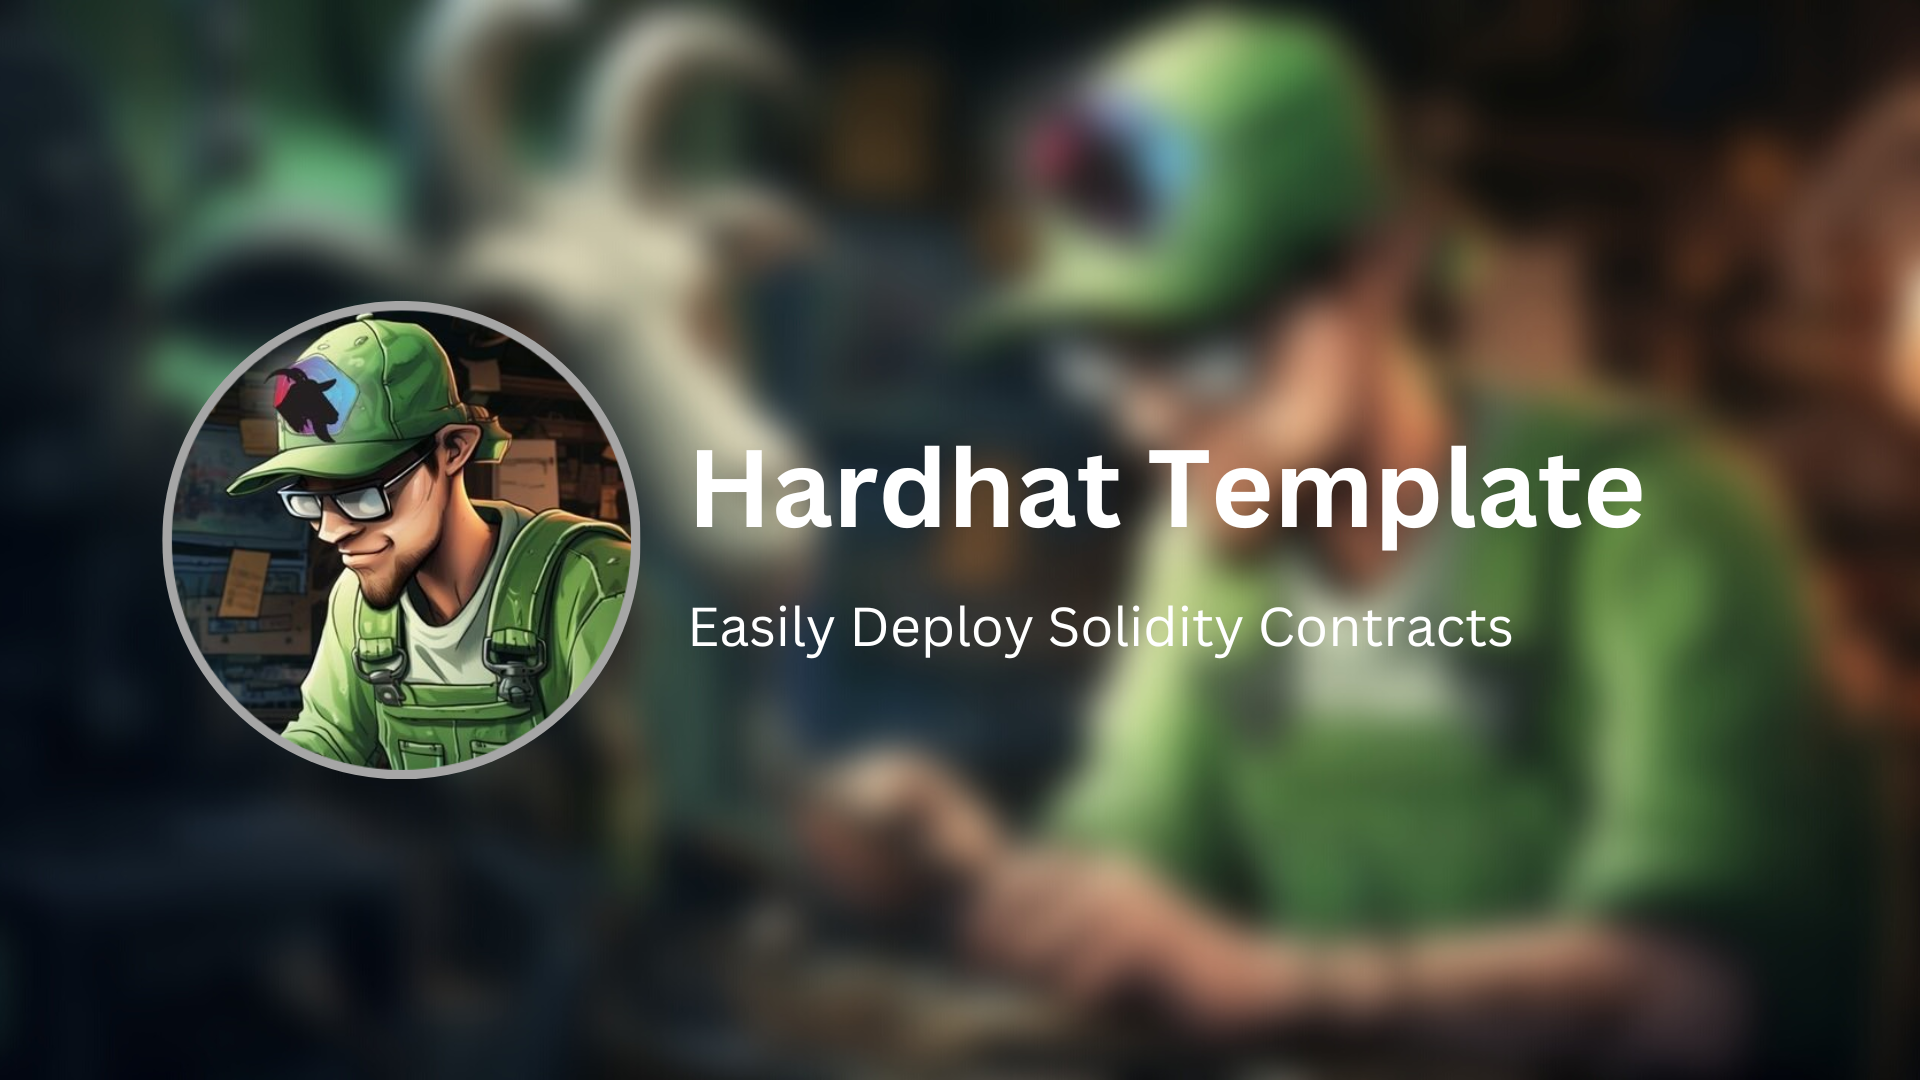
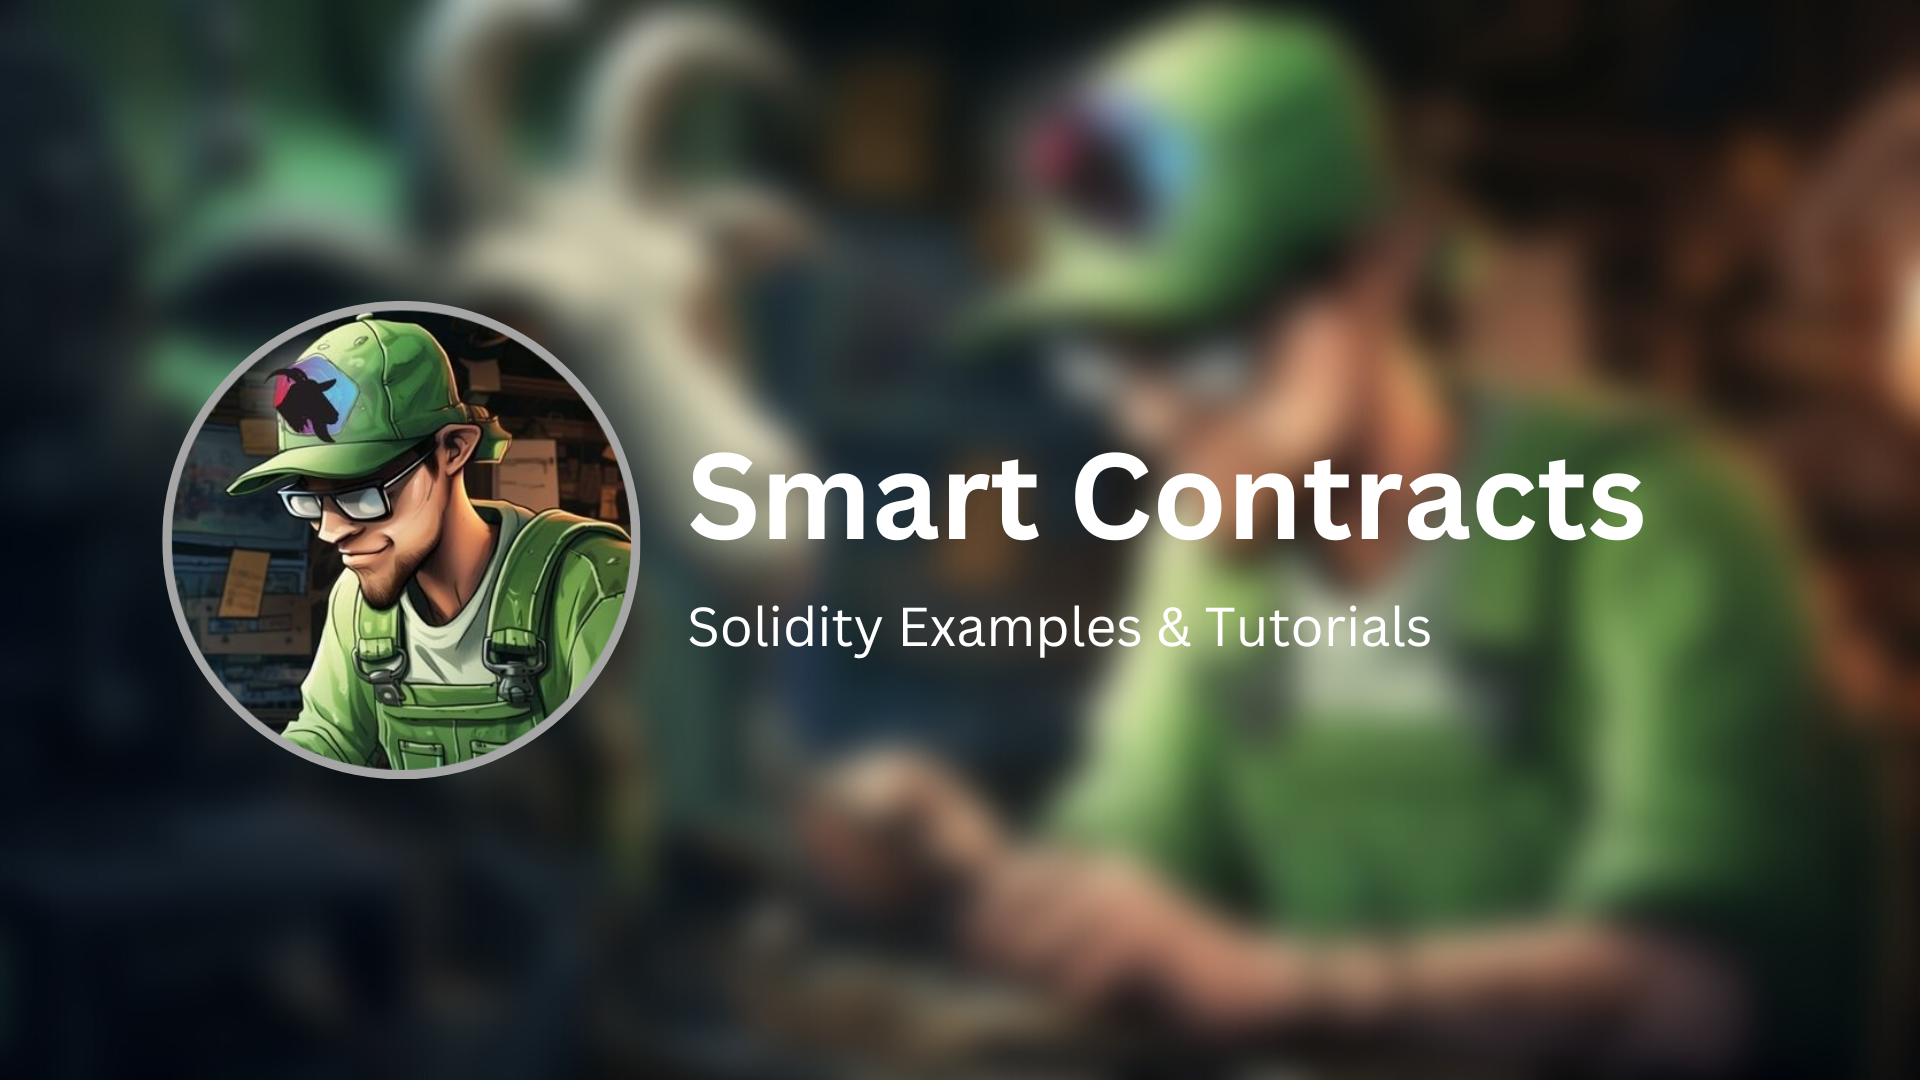
Project Metadata

Changed region(s): [[0.3438, 0.3972, 0.875, 0.5194], [0.3438, 0.55, 0.7812, 0.6111]]

diff --git a/README.md b/README.md
@@ -1,37 +1,13 @@
-<img src="./banner.png">
+<img src="./banner.png" />
 
-# hardhat-template
+# Smart Contracts
+This repository is to serve as a complement to Don Function's YouTube channel, where anyone can learn to code smart contracts in Solidity!
 
-Smart Contract Development Kit Template, using HardHat
+👉 <a href="https://www.youtube.com/@donfunction">WATCH + SUBSCRIBE</a>
 
-## Introduction
+👉 <a href="https://twitter.com/don_function">FOLLOW ON TWITTER</a>
 
+## WARNING / DISCLAIMER
+While smart contracts typically handle cryptocurrency or units of monetary value, it is important to understand that none of this content, code, accompanying video or media, or anything by Don Function or associated parties, is financial advice of any kind, and none of the aforementioned parties assume the role of a financial advisor. This content is served for educational purposes, tailoring to the programming and technological aspect of Solidity and smart contract development.
 
-
-## Installation
-
-This project requires several depenencies to run all its features. First, install [`Tenderly CLI`](https://github.com/Tenderly/tenderly-cli), then run the following command to log into Tenderly: 
-
-```bash
-tenderly login --authentication-method access-key --access-key {your_access_key} --force
-```
-
-Following this, run the standard installation command:
-
-```bash
-yarn install
-```
-
-## Usage
-
-
-
-## Contributing
-
-
-
-## License
-
-
-
-## Credits
+Additionally, no code provided via this repository or any of the aforementioned parties or outlets, is to be considered 'production-ready'. You should always carefully audit any code you use, and you alone by using this code (in whole or in part) assume full responsibility for its effects. Don't Trust - Verify.
